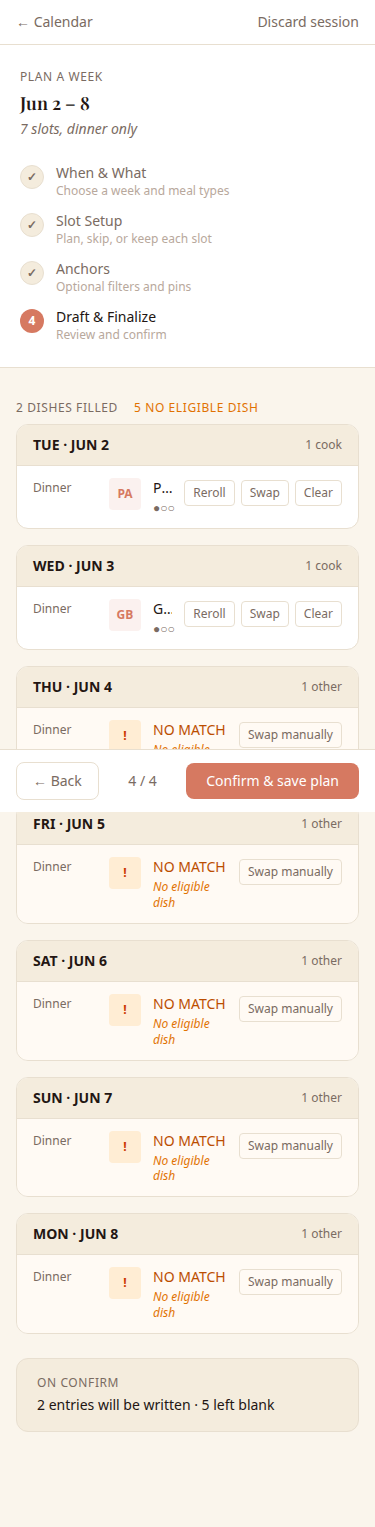
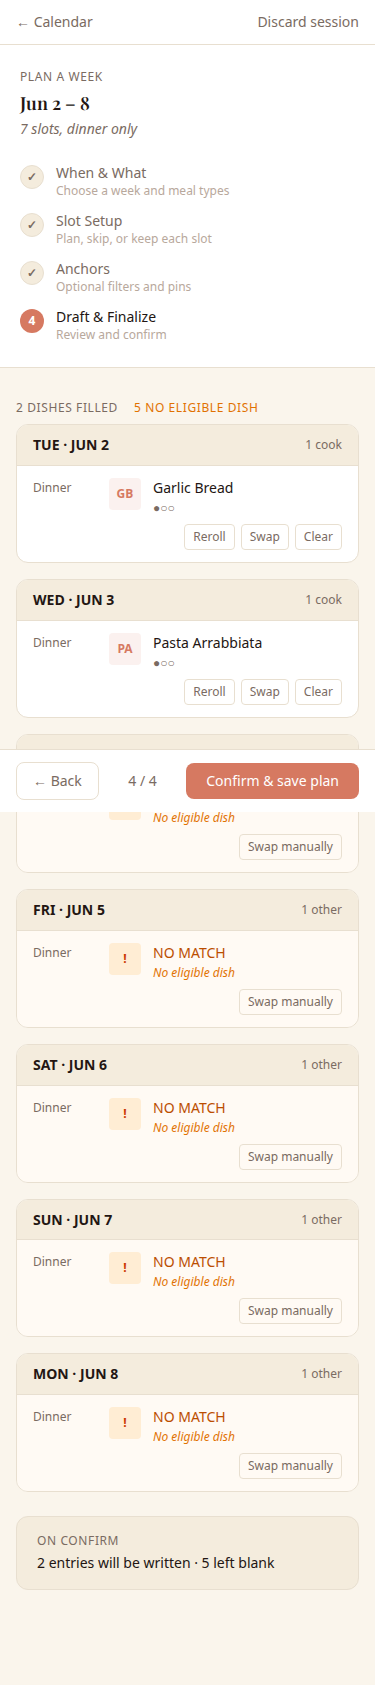
fix: wrap action buttons below dish name on mobile in Step 4

diff --git a/app/components/WizardStep4.vue b/app/components/WizardStep4.vue
@@ -45,7 +45,7 @@
             <div
               v-for="row in day.rows"
               :key="row.slotKey"
-              class="px-4 py-3 flex items-start gap-3"
+              class="px-4 py-3 flex flex-wrap items-start gap-x-3 gap-y-2"
               :class="rowBgClass(row)"
             >
               <!-- Meal label -->
@@ -124,7 +124,7 @@
               </div>
 
               <!-- Actions -->
-              <div class="shrink-0 flex items-center gap-1.5 pt-0.5">
+              <div class="w-full sm:w-auto shrink-0 flex items-center gap-1.5 sm:pt-0.5 justify-end">
                 <template v-if="row.state === 'no-match'">
                   <button
                     type="button"
